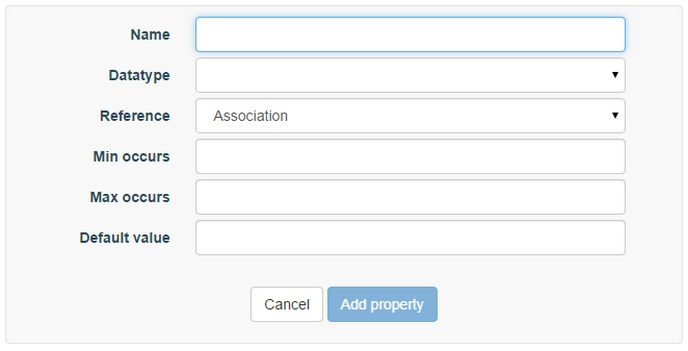
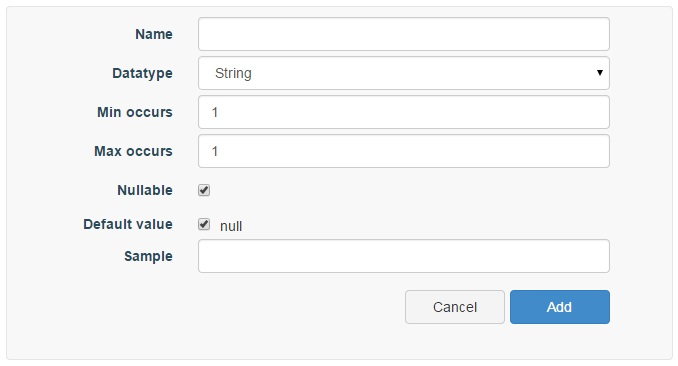
Added deploy messages and sample features

diff --git a/modules/com.restlet/tech-doc/apispark/guide/02_explore/03_cell-deployment.md b/modules/com.restlet/tech-doc/apispark/guide/02_explore/03_cell-deployment.md
@@ -5,11 +5,20 @@ The *APISpark web console* is the development environment in which you design an
 
 When you deploy a cell, APISpark generates a program that will be deployed in the cloud and executed in the *APISpark runtime environment*.
 
+![cell deployment](images/cell-deployment.jpg "cell deployment")
+
+
 Thus, your Data Stores and web APIs are only available to store data or receive HTTP requests after having been deployed.
 
-Cells can be deployed from the draft, published and deprecated states, and can be re-deployed at any time.
+When you create a cell, a message reminds you that you need to deploy it before being able to call it. This message displays from the cell **Overview** page on top of the screen.
 
-![cell deployment](images/cell-deployment.jpg "cell deployment")
+![cell deployment](images/overview-cell-needs-deployment.jpg "cell deployment")
+
+It also displays from the Dashboard at the bottom of the cell card.
+
+![cell deployment](images/dashboard-cell-needs-deployment.jpg "cell deployment")
+
+Cells can be deployed from the draft, published and deprecated states, and can be re-deployed at any time.
 
 The deployment process is composed of several steps, which are displayed in the deployment information window.
 

diff --git a/modules/com.restlet/tech-doc/apispark/guide/05_store/02_entity-stores/01_model-data.md b/modules/com.restlet/tech-doc/apispark/guide/05_store/02_entity-stores/01_model-data.md
@@ -82,9 +82,17 @@ These values are used to determine if a property should be stored as a list.
 
 By default, both min and max occurs are set to 1.
 
-### Default value (optional)
+### Nullable
 
-A property’s default value is assigned if a null value is provided upon creation of a data element.
+This checkbox allows you to make the property mandatory (not nullable) or not. Deselect the **Nullable** checkbox to make it mandatory.
+
+### Default value
+
+A property’s default value is assigned if a null value is provided upon creation of a data element. To assign a default value, deselect the **Default value** checkbox and enter a value in the field that displays.
+
+### Sample
+
+A sample value can be provided in this field. It will be suggested to the user when s/he adds a record.
 
 ## Entity relations
 

diff --git a/modules/com.restlet/tech-doc/apispark/guide/05_store/02_entity-stores/02_deploy.md b/modules/com.restlet/tech-doc/apispark/guide/05_store/02_entity-stores/02_deploy.md
@@ -1,6 +1,10 @@
 To deploy an Entity Store, simply click on the **Deploy** button. Messages will inform you of the progress and completion of the procedure.
 
-**Warning**: if the entity store is in draft mode and has only one version, all data will be erased if the store is deployed.
+You have to deploy your Entity Store before being able to use it: a message will remind you to deploy your Entity Store at creation.
+
+![Entity Store needs to be deployed](images/es-needs-deployment.jpg "Entity Store needs to be deployed")
+
+**Warning**: if the Entity Store is in draft mode and has only one version, all data will be erased if the store is deployed.
 
 > **Note:** If you add entities, you need to (re)deploy your Entity Store to display them in the **Browser** tab.
 
